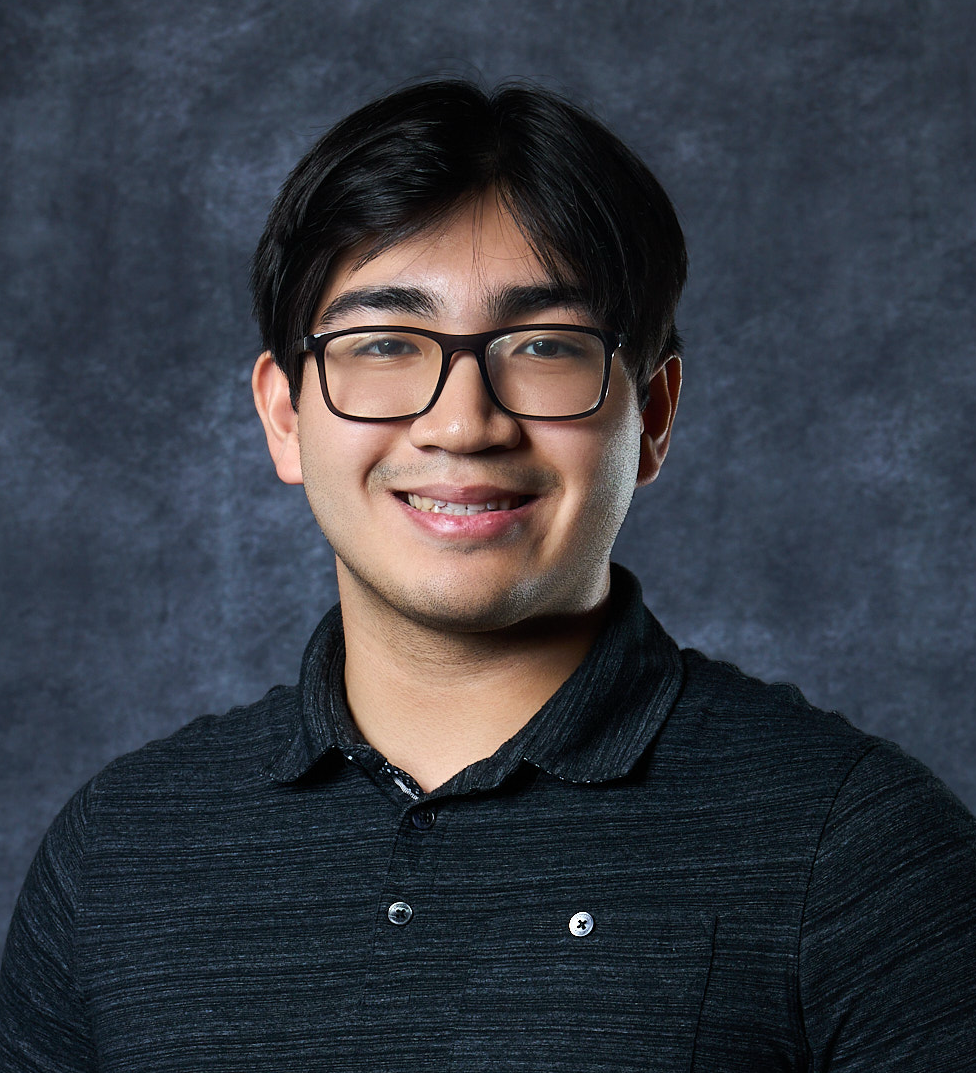
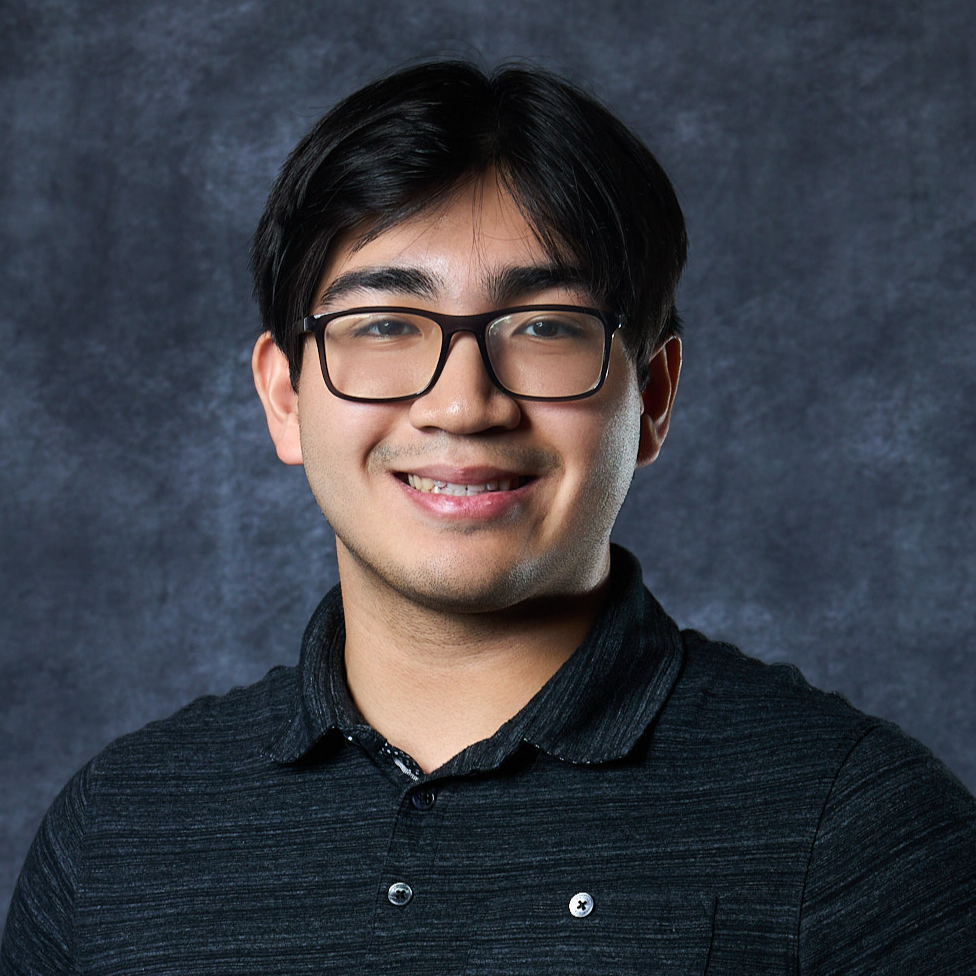
add descriptions and scrolling

diff --git a/frontend/app/components/landingPage/profileLanding.tsx b/frontend/app/components/landingPage/profileLanding.tsx
@@ -1,4 +1,4 @@
-import { useRef, useState, useEffect } from "react";
+import { useRef, useState } from "react";
 import teamMembers from "../../data/teamMembers.json";
 
 type TeamMember = { name: string; role: string; description: string, imageUrl: string };
@@ -31,13 +31,16 @@ export function ProfileLanding() {
   const [selectedIndex, setSelectedIndex] = useState<number | null>(null);
   const selected = TEAM_MEMBERS[selectedIndex ?? 0];
 
-  useEffect(() => {
+  function onCarouselWheel(e: React.WheelEvent<HTMLDivElement>) {
     const el = scrollRef.current;
     if (!el) return;
-    const stopWheel = (e: WheelEvent) => e.preventDefault();
-    el.addEventListener("wheel", stopWheel, { passive: false });
-    return () => el.removeEventListener("wheel", stopWheel);
-  }, []);
+
+    // Map vertical wheel movement to horizontal carousel scrolling.
+    if (Math.abs(e.deltaY) > Math.abs(e.deltaX)) {
+      el.scrollLeft += e.deltaY;
+      e.preventDefault();
+    }
+  }
 
   function scrollLeft() {
     const el = scrollRef.current;
@@ -78,6 +81,7 @@ export function ProfileLanding() {
           </button>
           <div
             ref={scrollRef}
+            onWheel={onCarouselWheel}
             className="flex flex-1 min-w-0 overflow-x-auto overflow-y-hidden scroll-smooth scrollbar-hide p-1 pb-4"
             style={{ gap: GAP, maxWidth: CAROUSEL_WIDTH }}
           >
@@ -86,19 +90,24 @@ export function ProfileLanding() {
                 key={i}
                 type="button"
                 onClick={() => setSelectedIndex(i)}
-                className={`flex-shrink-0 text-left transition rounded ${
+                className={`flex-shrink-0 text-left transition rounded p-2 overflow-hidden ${
                   selectedIndex !== null && selectedIndex === i
                     ? "ring-2 ring-black ring-offset-1"
                     : ""
                 }`}
                 style={{ width: CARD_WIDTH }}
               >
-                <div className="rounded aspect-square"
-                  style={{ width: CARD_WIDTH }}>
-                  <img src = {member.imageUrl} />
+                <div
+                  className="w-full rounded aspect-square overflow-hidden bg-zinc-300"
+                >
+                  <img
+                    src={member.imageUrl}
+                    alt={member.name}
+                    className="block w-full h-full object-cover"
+                  />
                 </div>                
                 <p className="mt-3 text-black text-[10px] font-normal font-tenor leading-4">
-                  {member.name},
+                  {member.name}
                   <br />
                   {member.role}
                 </p>
@@ -116,8 +125,12 @@ export function ProfileLanding() {
         </div>
 
         <div className="mt-16 flex flex-col md:flex-row gap-8 items-start">
-          <div className="w-56 h-56 flex-shrink-0 rounded">
-            <img src={selected.imageUrl}></img>
+          <div className="w-56 h-56 flex-shrink-0 rounded overflow-hidden bg-zinc-300">
+            <img
+              src={selected.imageUrl}
+              alt={selected.name}
+              className="w-full h-full object-cover"
+            />
           </div>
           <div>
             <h3 className="text-black text-2xl font-semibold font-mono">
